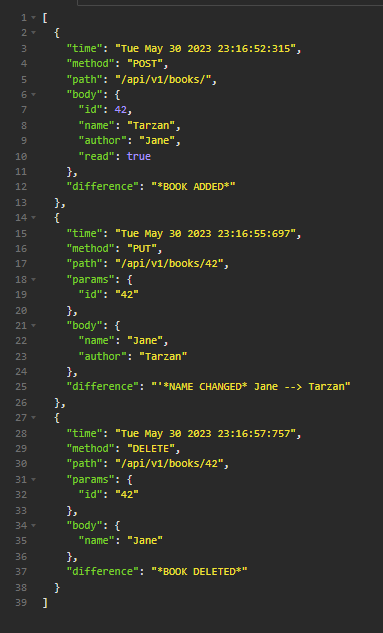
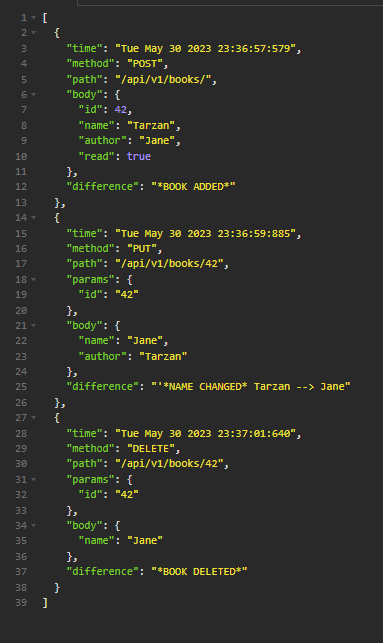
30.05.2023 Buutti buutcamp

diff --git a/Lecture_08/Assignment8.12/src/middlewares.ts b/Lecture_08/Assignment8.12/src/middlewares.ts
@@ -39,7 +39,7 @@ export const logger = (req: Request, res: Response, next: NextFunction) => {
   if (req.method === 'POST') log.difference = `*BOOK ADDED*`
   if (req.method === 'DELETE') log.difference = `*BOOK DELETED*`
   if (req.method === 'PUT' && name !== books[id].name) {
-    log.difference = `'*NAME CHANGED* ${name} --> ${books[id].name}`
+    log.difference = `'*NAME CHANGED* ${books[id].name} --> ${name}`
   }
   logs.push(log)
   next()
